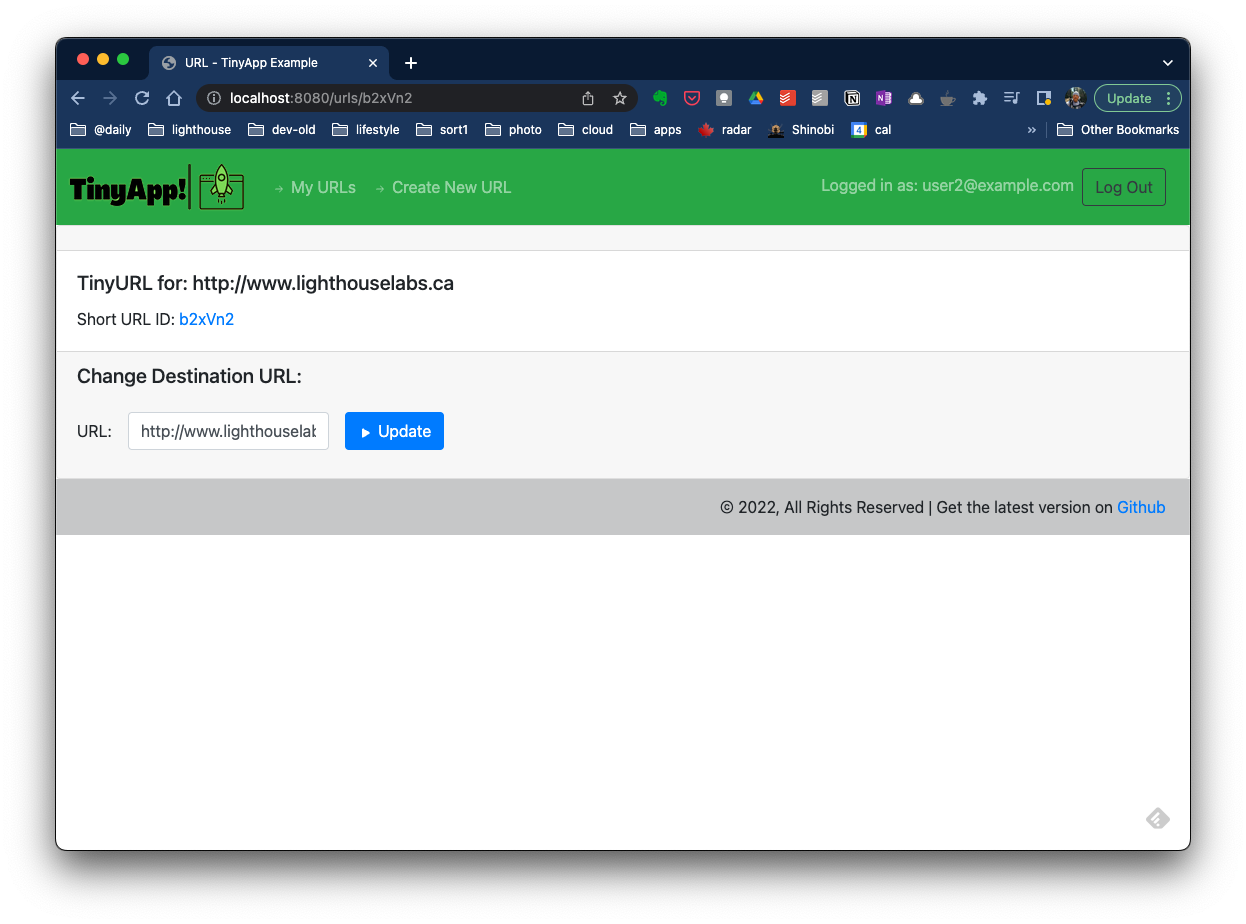
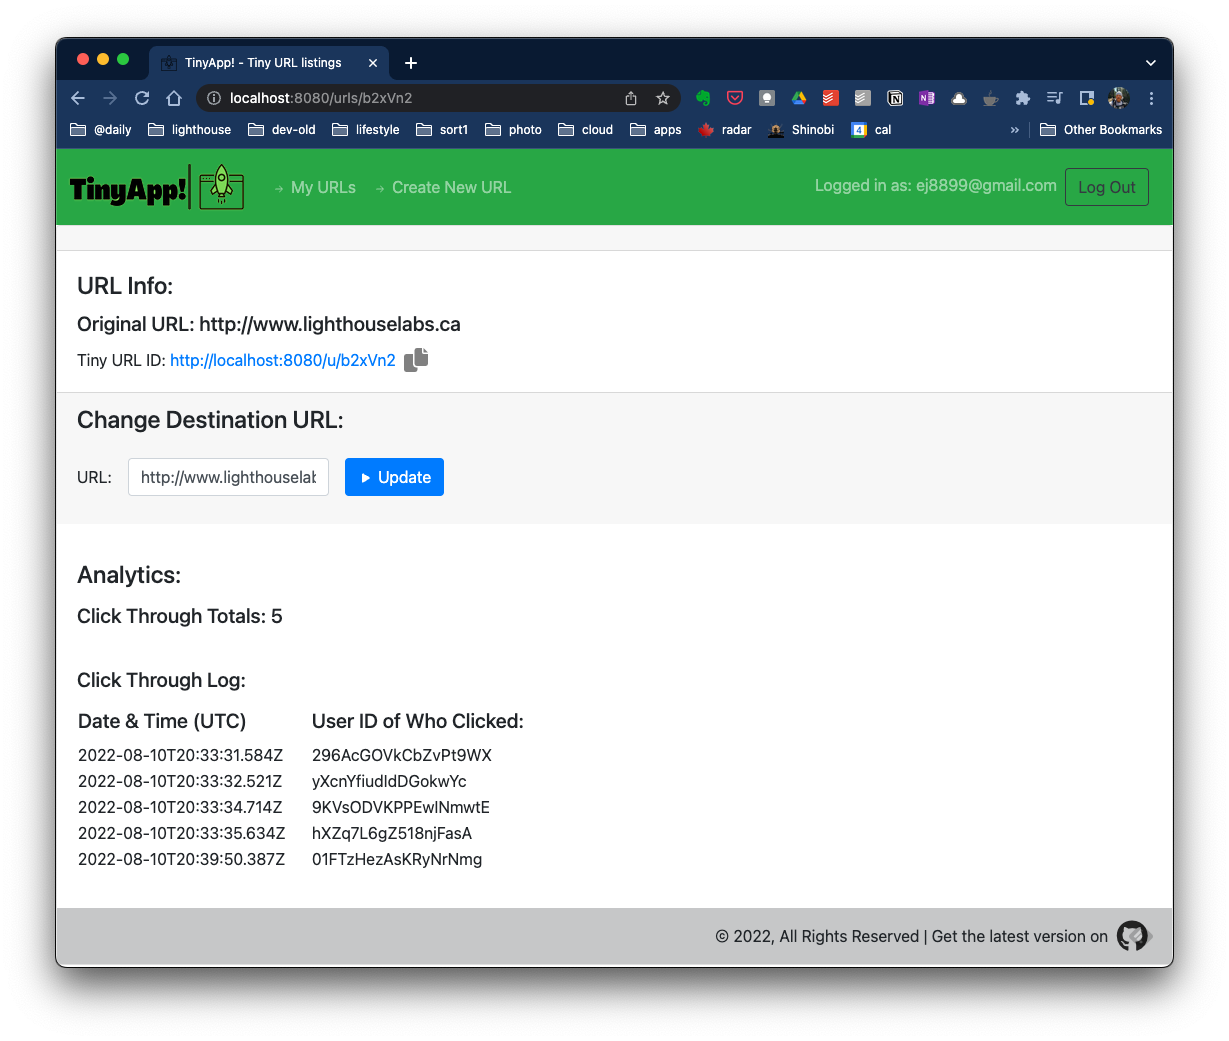
update for various analytics

diff --git a/express_server.js b/express_server.js
@@ -73,11 +73,11 @@ const trackingDatabase = {
 
 // analytics database: click LOG
 const clickDatabase = {
-  dateStamp: {
-    lid: 12345,
-    uid: 23456,
-    dateStamp: 12345,
-  }
+  // dateStamp: {
+  //   lid: 12345,
+  //   uid: 23456,
+  //   dateStamp: 12345,
+  // }
 };
 
 //
@@ -357,7 +357,7 @@ app.get("/urls/:id", (req, res) => {
   }
   let uidData = usersDatabase[uid];
   const totalCount = tinyTrack(trackingDatabase,req.params.id,"get");
-  const templateVars = { id: req.params.id, longURL: urlDatabase[req.params.id], user: uidData, totalCount};
+  const templateVars = { id: req.params.id, longURL: urlDatabase[req.params.id], user: uidData, totalCount, logs:clickDatabase};
   // <%= urls[id] %>
   res.render("urls_show.ejs", templateVars);
 });
@@ -396,7 +396,7 @@ app.get("/u/:id", (req, res) => {
     const longURL = urlDatabase[id];
     consolelog(`${conColorOrange}Redirected to ${conColorGreen}${longURL}${conColorReset}`);
     tinyTrack(trackingDatabase,id,'inc'); // increase total click count on this tiny URL
-    clickTrack(clickDatabase, id, "blah", 'add');
+    clickTrack(clickDatabase, id, makeID(18), 'add');  // !TODO - change makeID(18) to ACTUAL user id if exists
     res.redirect(longURL);
   } else {
     consolelog(`${conColorYellow}oops -  ${conColorRed}undefined${conColorYellow} isn't a valid destination${conColorReset}\n`);

diff --git a/helpers.js b/helpers.js
@@ -156,7 +156,8 @@ const clickTrack = function(db, urlID, uid, action) {
   // add a log entry
   console.log("IN CLICK TRACK");
   if (action === 'add') {
-    const rightNow = JSON.stringify(new Date());
+    let rightNow = JSON.stringify(new Date());
+    rightNow = rightNow.replace(/['"]+/g, '');
     console.log("RIGHTNOW: ", rightNow);
 
     let newClickTrack = {
